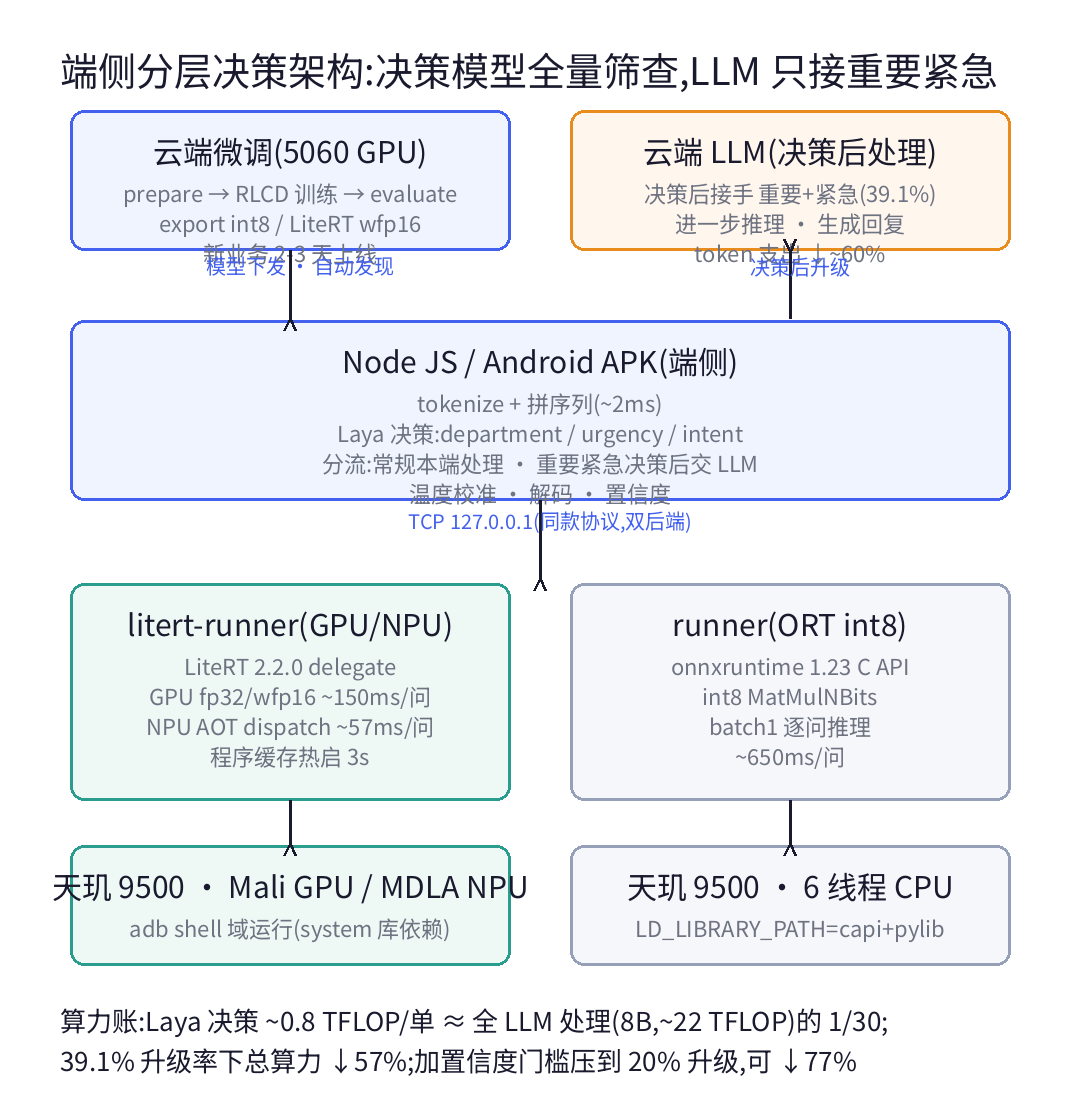
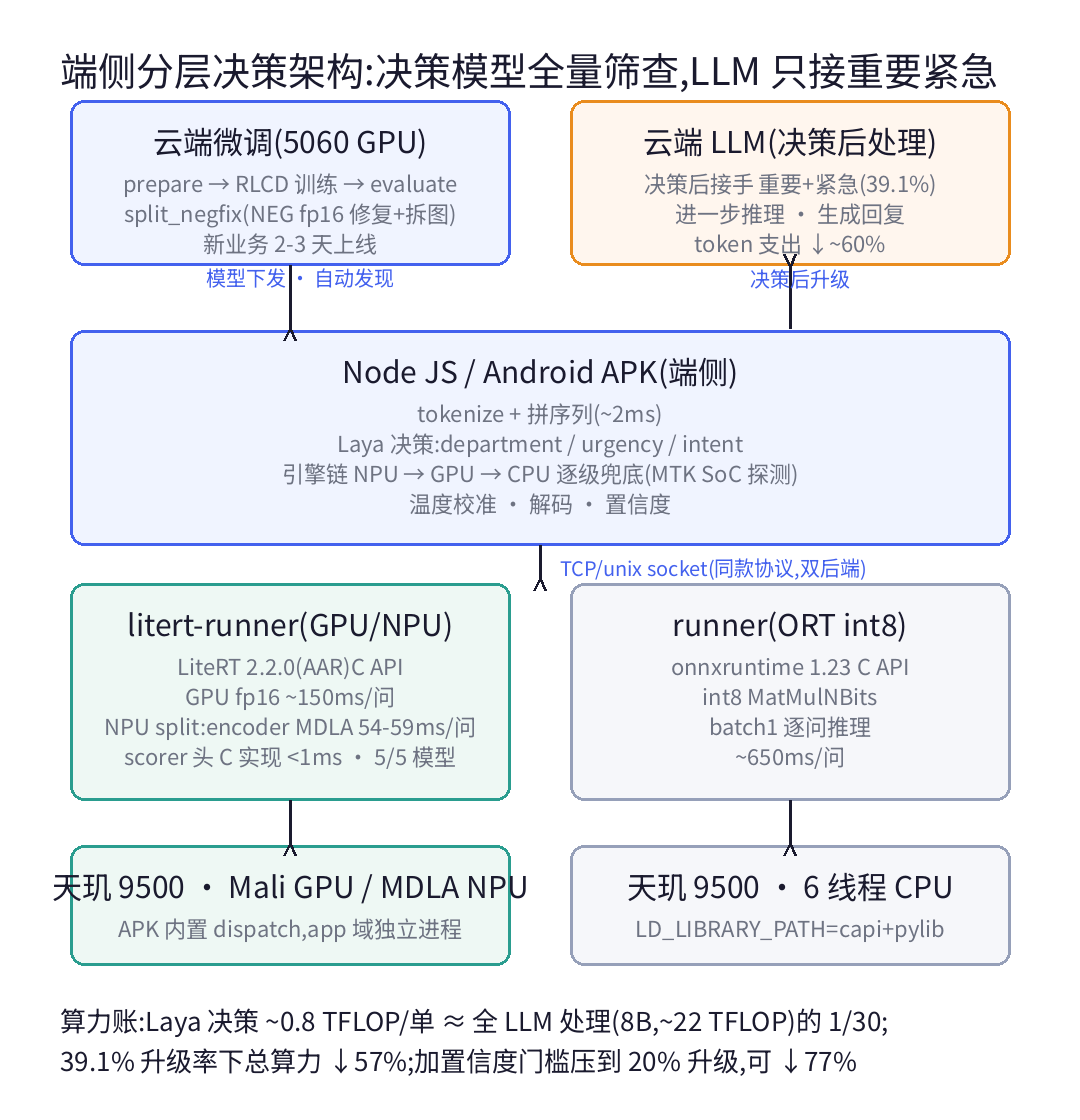
docs: 图表同步 v1.3.0 — 架构图/流程图更新 NPU split 实测数据,新增决策泳道图,readme 写入新业务上线 Mermaid 流程图

diff --git a/figs.py b/figs.py
@@ -59,20 +59,21 @@ def arrow(p0, p1, label=None):
         d.text(((p0[0] + p1[0]) / 2 - d.textlength(label, font=F(20)) / 2 + 10, (p0[1] + p1[1]) / 2 - 34), label, font=F(20), fill=BLUE)
 
 # 云端层:微调闭环 + LLM 升级通道
-box([70, 110, 510, 250], "云端微调(5060 GPU)", ["prepare → RLCD 训练 → evaluate", "export int8 / LiteRT wfp16", "新业务 2-3 天上线"], BLUE, (240, 244, 255))
-box([570, 110, 1010, 250], "云端 LLM(决策后处理)", ["决策后接手 重要+紧急(39.1%)", "进一步推理 · 生成回复", "token 支出 ↓~60%"], ORANGE, (255, 246, 238))
+box([70, 100, 510, 265], "云端微调(5060 GPU)", ["prepare → RLCD 训练 → evaluate", "split_negfix(NEG fp16 修复+拆图)", "新业务 2-3 天上线"], BLUE, (240, 244, 255))
+box([570, 100, 1010, 265], "云端 LLM(决策后处理)", ["决策后接手 重要+紧急(39.1%)", "进一步推理 · 生成回复", "token 支出 ↓~60%"], ORANGE, (255, 246, 238))
 # 端侧应用层
-box([70, 320, 1010, 500], "Node JS / Android APK(端侧)",
+box([70, 330, 1010, 545], "Node JS / Android APK(端侧)",
     ["tokenize + 拼序列(~2ms)", "Laya 决策:department / urgency / intent",
-     "分流:常规本端处理 · 重要紧急决策后交 LLM", "温度校准 · 解码 · 置信度"], BLUE, (240, 244, 255))
-arrow((290, 250), (290, 318), "模型下发 · 自动发现")
-arrow((790, 318), (790, 252), "决策后升级")
-arrow((540, 500), (540, 578), "TCP 127.0.0.1(同款协议,双后端)")
+     "引擎链 NPU → GPU → CPU 逐级兜底(MTK SoC 探测)", "温度校准 · 解码 · 置信度"], BLUE, (240, 244, 255))
+arrow((290, 265), (290, 328), "模型下发 · 自动发现")
+arrow((790, 328), (790, 267), "决策后升级")
+arrow((540, 545), (540, 578))
+d.text((560, 552), "TCP/unix socket(同款协议,双后端)", font=F(20), fill=BLUE)
 # 两条后端
-box([70, 583, 510, 800], "litert-runner(GPU/NPU)", ["LiteRT 2.2.0 delegate", "GPU fp32/wfp16 ~150ms/问", "NPU AOT dispatch ~57ms/问", "程序缓存热启 3s"], GREEN, (238, 248, 244))
+box([70, 583, 510, 800], "litert-runner(GPU/NPU)", ["LiteRT 2.2.0(AAR)C API", "GPU fp16 ~150ms/问", "NPU split:encoder MDLA 54-59ms/问", "scorer 头 C 实现 <1ms · 5/5 模型"], GREEN, (238, 248, 244))
 box([570, 583, 1010, 800], "runner(ORT int8)", ["onnxruntime 1.23 C API", "int8 MatMulNBits", "batch1 逐问推理", "~650ms/问"], (150, 160, 185), (246, 247, 250))
 # 硬件层
-box([70, 845, 510, 965], "天玑 9500 · Mali GPU / MDLA NPU", ["adb shell 域运行(system 库依赖)"], GREEN, (238, 248, 244))
+box([70, 845, 510, 965], "天玑 9500 · Mali GPU / MDLA NPU", ["APK 内置 dispatch,app 域独立进程"], GREEN, (238, 248, 244))
 box([570, 845, 1010, 965], "天玑 9500 · 6 线程 CPU", ["LD_LIBRARY_PATH=capi+pylib"], (150, 160, 185), (246, 247, 250))
 arrow((290, 800), (290, 843)); arrow((790, 800), (790, 843))
 d.text((60, 1000), "算力账:Laya 决策 ~0.8 TFLOP/单 ≈ 全 LLM 处理(8B,~22 TFLOP)的 1/30;", font=F(26), fill=INK)
@@ -80,42 +81,43 @@ d.text((60, 1040), "39.1% 升级率下总算力 ↓57%;加置信度门槛压到 
 img.save("/sdcard/Pictures/fig2_arch.png")
 
 # ---------- 图4:业务流程(决策分流 + LLM 升级 + 微调闭环) ----------
-img = Image.new("RGB", (W, 1140), BG)
+img = Image.new("RGB", (W, 1180), BG)
 d = ImageDraw.Draw(img)
 d.text((60, 40), "业务流程:决策模型分流 · LLM 只处理重要紧急", font=F(38), fill=INK)
 d.text((60, 92), "升级率取真实分布(tickets.csv 28587 单):high 39.1% / medium 40.3% / low 20.6%", font=F(24), fill=MUT)
 
-box([340, 135, 740, 210], "业务输入", ["工单 / 短信 / UGC / 风控事件"], BLUE, (240, 244, 255))
-arrow((540, 210), (540, 248))
-box([240, 252, 840, 392], "Laya 决策模型(单次前向,NPU ~0.17s/单)",
+box([340, 135, 740, 228], "业务输入", ["工单 / 短信 / UGC / 风控事件"], BLUE, (240, 244, 255))
+arrow((540, 228), (540, 248))
+box([240, 252, 840, 442], "Laya 决策模型(三问逐次前向,NPU ~0.08s/问)",
     ["department → 该谁管", "urgency → 重要紧急吗", "intent → 用户要什么",
      "微调后 choice acc 67.4%(零样本仅 38-42%)"], BLUE, (240, 244, 255))
-arrow((400, 392), (400, 443)); arrow((680, 392), (680, 443))
-box([70, 447, 470, 600], "本端自动处理(60.9%)",
+arrow((400, 442), (400, 478)); arrow((680, 442), (680, 478))
+box([70, 482, 470, 650], "本端自动处理(60.9%)",
     ["决策后:低/中优先级模板回复 · 智能路由", "sms/ugc/risk 判别即拦截", "~0.2s · <1J 能耗/单"], GREEN, (238, 248, 244))
-box([610, 447, 1010, 600], "LLM 进一步处理(39.1%)",
-    ["决策后:重要+紧急升级", "云端 API / 端侧大模型兜底", "复杂推理 · 生成回复", "~22 TFLOP · ~700J/单(8B)"], ORANGE, (255, 246, 238))
-arrow((290, 600), (290, 655)); arrow((790, 600), (790, 655))
-box([240, 659, 840, 762], "处理结果 + 决策日志(service /report/daily)",
+box([610, 482, 1010, 650], "LLM 进一步处理(39.1%)",
+    ["决策后:重要+紧急升级", "云端 API / 端侧大模型兜底", "复杂推理 · 生成回复"], ORANGE, (255, 246, 238))
+arrow((290, 650), (290, 690)); arrow((790, 650), (790, 690))
+box([240, 694, 840, 797], "处理结果 + 决策日志(service /report/daily)",
     ["数据回流:处理质量标注 → 训练语料"], INK, (246, 247, 250))
-arrow((540, 762), (540, 800))
-box([70, 804, 1010, 948], "新业务微调闭环(finetune/ 四脚本,云端 GPU)",
-    ["prepare_data 切分 → train RLCD(--task) → evaluate(acc/F1/ECE) → export int8/LiteRT",
-     "新业务冷启动:构造式合成数据先行,上线后换真实语料;模型落 /sdcard/models 自动发现"], BLUE, (240, 244, 255))
+arrow((540, 797), (540, 835))
+box([70, 839, 1010, 1000], "新业务上线流水线(finetune/ 四脚本 + litert-conv,云端 GPU)",
+    ["prepare_data 切分 → train RLCD(--task) → evaluate(acc/F1/ECE)",
+     "split_negfix(NEG=-1e4 修复+scorer 拆图)→ GPU wfp16 / NPU dispatch+scorer",
+     "双格式落 /sdcard/models 自动发现;引擎链按 SoC 自动选 NPU→GPU→CPU"], BLUE, (240, 244, 255))
 # 回路:微调 → 决策模型
-d.line([(1010, 876), (1052, 876)], fill=GREEN, width=3)
-d.line([(1052, 876), (1052, 322)], fill=GREEN, width=3)
+d.line([(1010, 920), (1052, 920)], fill=GREEN, width=3)
+d.line([(1052, 920), (1052, 322)], fill=GREEN, width=3)
 d.line([(1052, 322), (846, 322)], fill=GREEN, width=3)
 import math as _m
 for s in (2.7, -2.7):
     d.line([(846, 322), (846 - 14 * _m.cos(s), 322 - 14 * _m.sin(s))], fill=GREEN, width=3)
 d.text((852, 250), "模型下发", font=F(22), fill=GREEN)
 d.text((852, 280), "新业务上线", font=F(22), fill=GREEN)
-d.text((60, 995), "算力账:全 LLM ≈ 22 TFLOP/单(8B,1400 tok);分层 = 0.8 + 39.1%×22 ≈ 9.5 TFLOP,总算力 ↓57%", font=F(26), fill=INK)
-d.text((60, 1035), "能耗/费用:自动处理单 <1J vs LLM 单 ~700J;云端 token 费随升级率同比例 ↓~60%", font=F(26), fill=INK)
-d.text((60, 1075), "再加低置信度也升级的门槛(p→20%),总算力可 ↓77%", font=F(26), fill=MUT)
+d.text((60, 1045), "算力账:全 LLM ≈ 22 TFLOP/单(8B);分层 = 0.8 + 39.1%×22 ≈ 9.5 TFLOP,↓57%", font=F(26), fill=INK)
+d.text((60, 1085), "能耗/费用:自动处理单 <1J vs LLM 单 ~700J;云端 token 费随升级率同比例 ↓~60%", font=F(26), fill=INK)
+d.text((60, 1125), "再加低置信度也升级的门槛(p→20%),总算力可 ↓77%", font=F(26), fill=MUT)
 img.save("/sdcard/Pictures/fig4_flow.png")
-print("done: fig1_perf / fig2_arch / fig3_step / fig4_flow -> /sdcard/Pictures/")
+print("done: fig4_flow -> /sdcard/Pictures/")
 
 # ---------- 图3:热节流台阶(真实基准数据) ----------
 img = Image.new("RGB", (W, 700), BG)
@@ -156,3 +158,63 @@ d.text((px0 + 8, py1 - 30), "开强冷后:全程 15.5-22.5ms,台阶消失", font
 d.text((60, py1 + 52), "根因:SoC 积热触发温控降档 —— wait_type / 狂暴模式 / 调度参数全部无效", font=F(24), fill=MUT)
 img.save("/sdcard/Pictures/fig3_step.png")
 print("done: fig1_perf / fig2_arch / fig3_step -> /sdcard/Pictures/")
+
+# ---------- 图5:泳道图(一次决策请求的端到端路径) ----------
+img = Image.new("RGB", (W, 1300), BG)
+d = ImageDraw.Draw(img)
+d.text((60, 40), "泳道图:一次决策请求的端到端路径", font=F(38), fill=INK)
+d.text((60, 92), "三问逐次前向;每问 = 主图(MDLA 54-59ms)+ scorer(<1ms)+ 校准解码", font=F(24), fill=MUT)
+
+lanes = [
+    ("用户 /\n业务系统", (214, 234, 255), 150, 290),
+    ("APK 端侧\n(主进程)", (240, 244, 255), 290, 740),
+    ("runner\n独立进程", (238, 248, 244), 740, 920),
+    ("加速器\n(NPU|GPU|CPU)", (255, 246, 238), 920, 1060),
+    ("云端 LLM", (255, 246, 238), 1060, 1180),
+]
+for name, col, y0, y1 in lanes:
+    d.rounded_rectangle([60, y0, 1020, y1], 12, fill=col, outline=LINE, width=2)
+    yy = (y0 + y1) / 2 - 12 * name.count("\n") - 12
+    for ln in name.split("\n"):
+        d.text((74, yy), ln, font=F(22), fill=INK)
+        yy += 30
+
+def sbox(x0, y0, x1, y1, title, sub=None, border=BLUE):
+    d.rounded_rectangle([x0, y0, x1, y1], 12, fill=BG, outline=border, width=3)
+    cx = (x0 + x1) / 2
+    d.text((cx - d.textlength(title, font=F(24)) / 2, y0 + (24 if sub else 38)), title, font=F(24), fill=INK)
+    if sub:
+        d.text((cx - d.textlength(sub, font=F(20)) / 2, y0 + 62), sub, font=F(20), fill=MUT)
+
+def sarrow(p0, p1, label=None, col=INK):
+    d.line([p0, p1], fill=col, width=3)
+    import math
+    ang = math.atan2(p1[1] - p0[1], p1[0] - p0[0])
+    for s in (2.7, -2.7):
+        d.line([p1, (p1[0] - 13 * math.cos(ang - s), p1[1] - 13 * math.sin(ang - s))], fill=col, width=3)
+    if label:
+        mx, my = (p0[0] + p1[0]) / 2, (p0[1] + p1[1]) / 2
+        d.text((mx - d.textlength(label, font=F(19)) / 2 + 8, my - 30), label, font=F(19), fill=BLUE)
+
+# 步骤布局(左列下行 → 中路 → 右列上行,无穿框)
+sbox(320, 158, 760, 282, "业务输入", "工单 / 短信 / UGC / 风控事件")                       # L1
+sbox(180, 303, 460, 427, "tokenize + 拼序列", "~2ms,嵌 token embeddings")                # L2-r1 左
+sbox(580, 303, 1020, 427, "引擎链选择", "MTK SoC 探测:NPU→GPU→CPU 逐级兜底", GREEN)      # L2-r1 右
+sbox(180, 573, 460, 697, "温度校准 · 解码 · 分流", "60.9% 本端 · 39.1% 升级")             # L2-r2 左
+sbox(400, 768, 680, 892, "主图前向", "encoder+head")                                      # L3 中
+sbox(620, 768, 1020, 892, "scorer 头 C 实现", "LN→FC→GELU→FC,<1ms")                       # L3 右
+sbox(360, 928, 720, 1052, "MDLA | GPU | CPU 兜底", "fp16 54-59ms · NEG=-1e4 修复", GREEN)  # L4
+sbox(320, 1098, 760, 1182, "复杂推理 · 生成回复", "决策后接手,token 支出 ↓~60%", ORANGE)   # L5
+
+sarrow((540, 282), (320, 300))                            # 输入 → tokenize
+sarrow((460, 365), (580, 365))                            # tokenize → 引擎链
+sarrow((760, 427), (545, 765), "下发推理")                 # 引擎链 → 主图
+sarrow((540, 892), (540, 926))                            # 主图 → 加速器
+sarrow((660, 926), (800, 895), "hidden states", GREEN)    # 加速器 → scorer(上行)
+sarrow((800, 766), (462, 662), "logits", GREEN)           # scorer → 校准分流(上行)
+sarrow((320, 697), (320, 1094), "39.1% 决策后升级", ORANGE)  # 校准分流 → LLM(左路直下)
+
+d.text((60, 1200), "每问端到端 76-82ms(APK 真机);3 问 = 228-246ms;GPU 兜底 ~500ms/问", font=F(26), fill=INK)
+d.text((60, 1240), "升级触发:重要 + 紧急且低置信度 → 决策后交 LLM;token 支出随升级率 ↓~60%", font=F(24), fill=MUT)
+img.save("/sdcard/Pictures/fig5_swimlane.png")
+print("done: fig5_swimlane -> /sdcard/Pictures/")
